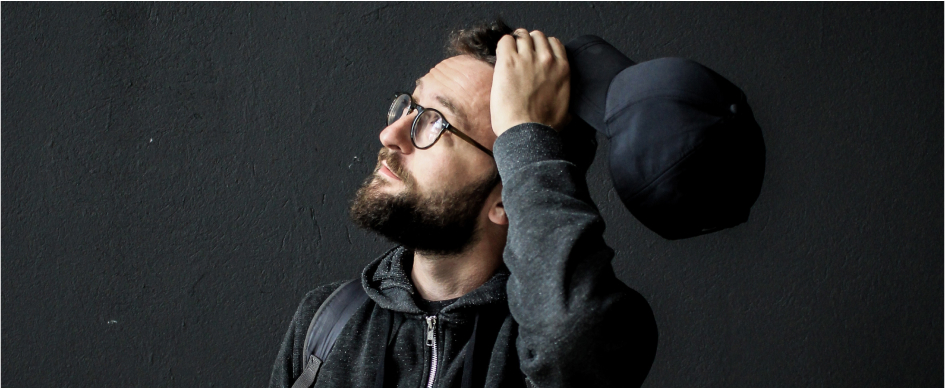
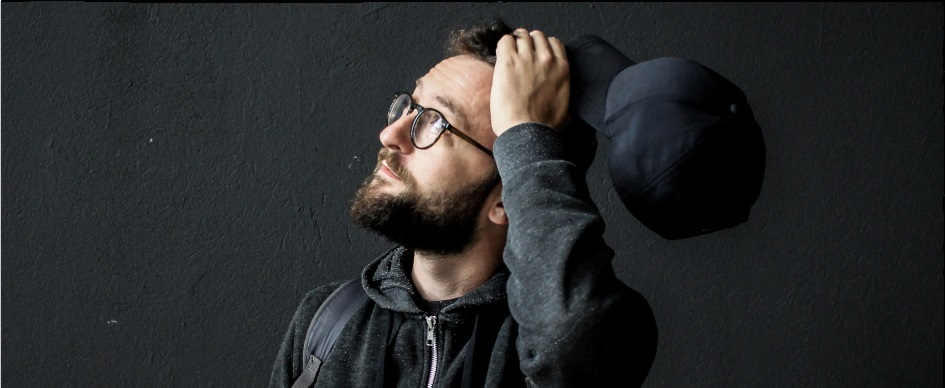
fix

Changed region(s): [[0.0921, 0.0, 0.9206, 0.0309], [0.982, 0.0, 1.0, 0.0309], [0.0, 0.0, 0.0307, 0.0309]]

diff --git a/04/index.html b/04/index.html
@@ -27,6 +27,7 @@
 <div class="conteiner">
 <section class="denis">
 <div class="header_h"><h1>Denis Novik</h1></div>
+<div class="black_back"><img src="assets/IMG/blackground.png" alt="blackground"></div>
 <div class="foto"><img src="assets/IMG/Denis_foto.jpg" alt="Denis Novik"></div>
 </section>
 </div>
@@ -36,12 +37,12 @@
     <h2>About me</h2>
     </div>
     <div class="about_txt">
-        <div class=about_txt_p>Hi, I'm Denis - UX/UI designer from Minsk. 
-        <p>I'm interested in design and everything connected with it.</p></div>
-        <div class=about_txt_p>I'm studying at courses "Web and mobile design 
-            <p>interfaces" in IT-Academy.</p></div>
-        <div class="about_txt_p">to implement excellent projects
-           <p>with wonderful people.</p></div>
+        <div class=about_txt_p><p><span>Hi, I'm Denis - UX/UI designer from Minsk.</span>
+        <span>I'm interested in design and everything connected with it.</span></p></div>
+        <div class=about_txt_p><p><span>I'm studying at courses "Web and mobile design </span>
+            <span>interfaces" in IT-Academy.</span></p></div>
+        <div class="about_txt_p"><p><span>to implement excellent projects</span>
+           <span> wonderful people.</span></p></div>
     </div>
 </div>
 </section>
@@ -54,22 +55,46 @@
                 <div class="skills_program_section">
                     <div class="skills_program_img"><img src="assets/IMG/skills_photoshop.png" alt="photoshop"></div>
                     <div class="skills_program_txt">Adobe <br> Photoshop</div>
-                    <div class="skills_program_star"><img src="assets/IMG/four_star.png" alt="four star"></div>
+                    <div class="skills_program_star">
+                        <span><img src="assets/IMG/blackstar.png" alt="blackstar"></span>
+                        <span><img src="assets/IMG/blackstar.png" alt="blackstar"></span>
+                        <span><img src="assets/IMG/blackstar.png" alt="blackstar"></span>
+                        <span><img src="assets/IMG/blackstar.png" alt="blackstar"></span>
+                        <span><img src="assets/IMG/whitestar.png" alt="whitestar"></span>
+                    </div>
                 </div>
                 <div class="skills_program_section">
                     <div class="skills_program_img"><img src="assets/IMG/skills_illustrator.png" alt="Adobe Illustrator"></div>
                     <div class="skills_program_txt">Adobe<br>Illustrator</div>
-                    <div class="skills_program_star"><img src="assets/IMG/three_star.png" alt="three star"></div>
+                    <div class="skills_program_star">
+                        <span><img src="assets/IMG/blackstar.png" alt="blackstar"></span>
+                        <span><img src="assets/IMG/blackstar.png" alt="blackstar"></span>
+                        <span><img src="assets/IMG/blackstar.png" alt="blackstar"></span>
+                        <span><img src="assets/IMG/whitestar.png" alt="whitestar"></span>
+                        <span><img src="assets/IMG/whitestar.png" alt="whitestar"></span>
+                    </div>
                 </div>
                 <div class="skills_program_section">
                     <div class="skills_program_img"><img src="assets/IMG/skills_effects.png" alt="Adobe After Effects"></div>
                     <div class="skills_program_txt">Adobe <br> After Effects</div>
-                    <div class="skills_program_star"><img src="assets/IMG/four_star.png" alt="four star"></div>
+                    <div class="skills_program_star">
+                        <span><img src="assets/IMG/blackstar.png" alt="blackstar"></span>
+                        <span><img src="assets/IMG/blackstar.png" alt="blackstar"></span>
+                        <span><img src="assets/IMG/blackstar.png" alt="blackstar"></span>
+                        <span><img src="assets/IMG/blackstar.png" alt="blackstar"></span>
+                        <span><img src="assets/IMG/whitestar.png" alt="whitestar"></span>
+                    </div>
                 </div>
                 <div class="skills_program_section">
                     <div class="skills_program_img_figma"><img src="assets/IMG/skills_figma.png" alt="Figma"></div>
                     <div class="skills_program_txt">Figma</div>
-                    <div class="skills_program_star"><img src="assets/IMG/four_star.png" alt="four star"></div>
+                    <div class="skills_program_star">
+                        <span><img src="assets/IMG/blackstar.png" alt="blackstar"></span>
+                        <span><img src="assets/IMG/blackstar.png" alt="blackstar"></span>
+                        <span><img src="assets/IMG/blackstar.png" alt="blackstar"></span>
+                        <span><img src="assets/IMG/blackstar.png" alt="blackstar"></span>
+                        <span><img src="assets/IMG/whitestar.png" alt="whitestar"></span>
+                    </div>
                 </div>
             </div>
         </div>
@@ -81,7 +106,8 @@
         <div class="portolio_h"><h2>Portfolio</h2></div>
         <div class="portolio_example">
             <div class="portfolio_img"><img src="assets/IMG/fashion_store.png" alt="fashion store"></div>
-            <div class="portolio_link"><a href="#" target="_blank" rel="nofollow noreferrer">Online fashion store <p>Homepage</p></a></div>
+            <div class="portolio_link"><a href="#" target="_blank" rel="nofollow noreferrer">
+                <p>Online fashion store <span>Homepage</span></a></p></div>
         </div>
         <div class="portolio_example">
             <div class="portfolio_img"><img src="assets/IMG/reebok.png" alt="reebok store"></div>
@@ -112,8 +138,8 @@
             <div class="footer_link"><a href="#" target="_blank" rel="nofollow noreferrer"> 
                     <img src="assets/IMG/footer_surface.png" alt="instagram"></a></div>
         </div>
-        <div class="footer_meadia_txt"><p>Like me on</p>
-            LinkedIn, Instagram, Behance,<p> Dribble</p></div>
+        <div class="footer_meadia_txt"><p><span>Like me on</span>
+            <span>LinkedIn, Instagram, Behance,</span><span> Dribble</span></p></div>
     </div>
 </div>
 </footer>

diff --git a/04/assets/CSS/style.css b/04/assets/CSS/style.css
@@ -14,12 +14,9 @@ header a{
     text-decoration: none;
 }
 footer a{
-    text-decoration: none;
+      text-decoration: none;
 }
-img{
-    margin: 0px;
-    width:100%;
-}
+
 .wrapper{
     display: flex;
     flex-direction: column;
@@ -60,22 +57,28 @@ header nav {
 }
 .denis{
     padding-bottom: 100px;
+    position: relative;
 }
 h1{
     font-size: 47px;
     font-weight: 700;
     margin:34px 0 39px 0px; 
 }
+.black_back{
+    position: absolute;
+    z-index: -1;
+    transform: translate(6px, -3px);
+}
 .about_me{
     background-color:#F6F6F6;
     text-align: center;
+    padding-top: 100px;
+    
 }
 .about_h{
-    padding-top: 100px;
-  
     font-size: 34px;
     font-weight: 700;
-    padding-bottom: 28px;
+    line-height: 46.3px;
 }
 .about_txt{
     width: 480px;
@@ -84,16 +87,20 @@ h1{
     font-size: 18px;
     line-height: 25px;
     padding-bottom: 100px;
+
+    margin-top: 28px;
   
 }
 .about_txt_p{
     padding-bottom: 40px;
 }
+.about_txt_p span{
+    display: block;
+}
 .skills{
     margin: 100px auto 83px auto;
 }
 .skills_h{
- 
     font-size: 34px;
     font-weight: 700;
     text-align: center;
@@ -105,17 +112,13 @@ h1{
     line-height: 25px;
     text-align: center;
     margin-bottom: 79px;
-
-}
-.skills_program{
-    display: flex;
-    margin:0px 52px 0px 39px;
-    justify-content: space-between;
 }
 .skills_program_section{
-    display: flex;
-    flex-direction: column;
-    
+    display: inline-block;
+    margin-right: 86px;
+}
+.skills_program_section:last-child{
+    margin-right: 0px;
 }
 .skills_program_img{
     text-align: center;
@@ -139,6 +142,16 @@ h1{
     height: 27px;
     color:#828282;
 }
+.skills_program_star{
+    padding-bottom: 3px;
+}
+.skills_program_star span{
+    margin-right: 9px;
+}
+.skills_program_star span:last-child{
+    margin-right: 0px;
+}
+
 .portfolio{
     background-color: #F6F6F6;
 }
@@ -164,7 +177,9 @@ h1{
     font-weight: 400;
     margin-top: 15px;
     text-align: center;
-    
+}
+.portolio_link span{
+    display: block;
 }
 .portolio_link_reebok{
     font-size: 18px;
@@ -184,10 +199,12 @@ h1{
     width: 341px;
     height: 411px;
 }
-.footer_media{
-    display: flex;
-    justify-content: space-between;
-    margin-bottom: 44px;
+.footer_link{
+    display: inline-block;
+    margin-right: 54px;
+}
+.footer_link:last-child{
+    margin-right: 0px;
 }
 .footer_h{
     font-size: 34px;
@@ -223,4 +240,8 @@ h1{
     font-size: 14px;
     text-align: center;
     color:#828282;
+    margin-top: 44px;
+}
+.footer_meadia_txt span{
+display: block;
 }
